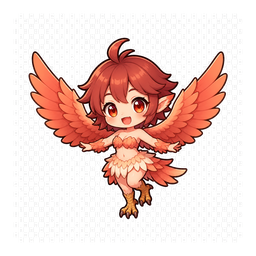
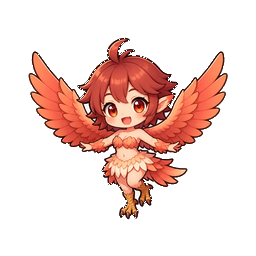
Knock out baked checkerboard backgrounds on new monster sprites.
Edge-flood pale tiles to true alpha for the newer trash and boss art, and bump to v1.05 so image caches refresh.

diff --git a/js/battle/system.js b/js/battle/system.js
@@ -1,7 +1,7 @@
 /** 战斗系统：读条、技能、自动循环 */
 
-import { $, clamp, irand } from "../core/utils.js?v=104";
-import { playSkillAnim, playReflectSpikes } from "./anim.js?v=104";
+import { $, clamp, irand } from "../core/utils.js?v=105";
+import { playSkillAnim, playReflectSpikes } from "./anim.js?v=105";
 import {
   refreshHeroStats,
   skillPower,
@@ -20,7 +20,7 @@ import {
   skillMpCost,
   canAffordSkill,
   spendSkillMp,
-} from "../characters/omni/index.js?v=104";
+} from "../characters/omni/index.js?v=105";
 import {
   gainExp,
   splitExp,
@@ -30,30 +30,30 @@ import {
   DEFAULT_HIT_RATE,
   DEFAULT_DODGE_RATE,
   isHeroDead,
-} from "../characters/progression.js?v=104";
+} from "../characters/progression.js?v=105";
 import {
   refreshSkillTexts,
   calcReflectEnemyDamage,
   getReflectParams,
   applyReflectAllyUnique,
-} from "../characters/skills.js?v=104";
-import { buildEncounter } from "../monsters/roster.js?v=104";
+} from "../characters/skills.js?v=105";
+import { buildEncounter } from "../monsters/roster.js?v=105";
 import {
   pickMonsterSkill,
   monsterSkillDamage,
   monsterDotTickDamage,
   clampMonsterDotGauge,
   PULSE_DOT_INTERVAL,
-} from "../monsters/skills.js?v=104";
-import { rollBattleLoot } from "../loot/drops.js?v=104";
+} from "../monsters/skills.js?v=105";
+import { rollBattleLoot } from "../loot/drops.js?v=105";
 import {
   GAUGE_MAX,
   getBattleAutoEnabled,
   setBattleAutoEnabled,
-} from "../characters/stats.js?v=104";
-import { createTicker } from "../core/time.js?v=104";
-import { scaleGoldGain, scaleExpGain } from "../core/economy.js?v=104";
-import { unitIconHtml, unitShapeHtml } from "../ui/unitIcon.js?v=104";
+} from "../characters/stats.js?v=105";
+import { createTicker } from "../core/time.js?v=105";
+import { scaleGoldGain, scaleExpGain } from "../core/economy.js?v=105";
+import { unitIconHtml, unitShapeHtml } from "../ui/unitIcon.js?v=105";
 import {
   applyStun as applyStunStatus,
   applyStatus,
@@ -67,8 +67,8 @@ import {
   effectiveSpd,
   statusBadgesHtml,
   DEFAULT_STATUS_GAUGE,
-} from "./status.js?v=104";
-import { basicAttackId } from "../characters/omni/autoAttack.js?v=104";
+} from "./status.js?v=105";
+import { basicAttackId } from "../characters/omni/autoAttack.js?v=105";
 
 export function createBattleApi(ctx) {
   const {

diff --git a/js/ui/shell.js b/js/ui/shell.js
@@ -1,6 +1,6 @@
 /** 游戏界面：探索 HUD / 背包 / 阵容 / 角色详情 */
 
-import { $, clamp, styleTag } from "../core/utils.js?v=104";
+import { $, clamp, styleTag } from "../core/utils.js?v=105";
 import {
   refreshHeroStats,
   SLOT_KEYS,
@@ -47,17 +47,17 @@ import {
   isHeroDead,
   refreshSkillTexts,
   buildSkillText,
-} from "../characters/omni/index.js?v=104";
-import { sumEquipBonus, UNIQUE_SKILL_IDS, uniqueAffixName, uniqueAffixDetail, CAST_ECHO_AFFIX } from "../characters/omni/equipment.js?v=104";
-import { setSavedFormation } from "../characters/stats.js?v=104";
-import { resetGameLocalData } from "../core/save.js?v=104";
-import { createAllUniqueItems } from "../loot/drops.js?v=104";
-import { APP_VERSION } from "../core/version.js?v=104";
-import { MONSTER_SKILLS, TYPE_SKILL_IDS, monsterSkillBrief } from "../monsters/skills.js?v=104";
-import { buildFloorMonsterCatalog } from "../monsters/roster.js?v=104";
-import { getFloorDef, MAX_FLOOR } from "../map/floors.js?v=104";
-import { scaleGoldGain, scaleExpGain } from "../core/economy.js?v=104";
-import { unitIconHtml, unitDiamondScale } from "./unitIcon.js?v=104";
+} from "../characters/omni/index.js?v=105";
+import { sumEquipBonus, UNIQUE_SKILL_IDS, uniqueAffixName, uniqueAffixDetail, CAST_ECHO_AFFIX } from "../characters/omni/equipment.js?v=105";
+import { setSavedFormation } from "../characters/stats.js?v=105";
+import { resetGameLocalData } from "../core/save.js?v=105";
+import { createAllUniqueItems } from "../loot/drops.js?v=105";
+import { APP_VERSION } from "../core/version.js?v=105";
+import { MONSTER_SKILLS, TYPE_SKILL_IDS, monsterSkillBrief } from "../monsters/skills.js?v=105";
+import { buildFloorMonsterCatalog } from "../monsters/roster.js?v=105";
+import { getFloorDef, MAX_FLOOR } from "../map/floors.js?v=105";
+import { scaleGoldGain, scaleExpGain } from "../core/economy.js?v=105";
+import { unitIconHtml, unitDiamondScale } from "./unitIcon.js?v=105";
 
 const BAG_SLOTS = 48;
 const PHONE_RESET_CODE = "*886#";

diff --git a/js/main.js b/js/main.js
@@ -1,4 +1,4 @@
-import { $ } from "./core/utils.js?v=104";
+import { $ } from "./core/utils.js?v=105";
 import {
   canWalk,
   isExitCell,
@@ -7,9 +7,9 @@ import {
   screenToTile,
   VIEW_COLS,
   preloadMonsterImages,
-} from "./map/island15.js?v=104";
-import { buildFloor } from "./map/dungeon.js?v=104";
-import { MAX_FLOOR } from "./map/floors.js?v=104";
+} from "./map/island15.js?v=105";
+import { buildFloor } from "./map/dungeon.js?v=105";
+import { MAX_FLOOR } from "./map/floors.js?v=105";
 import {
   createOmniHero,
   createPinkHero,
@@ -25,16 +25,16 @@ import {
   makeItem,
   toBagEquip,
   refreshHeroStats,
-} from "./characters/omni/index.js?v=104";
-import { getSavedFormation } from "./characters/stats.js?v=104";
-import { moveSlimeOnce } from "./monsters/slime.js?v=104";
-import { createBattleApi } from "./battle/system.js?v=104";
-import { createUI } from "./ui/shell.js?v=104";
+} from "./characters/omni/index.js?v=105";
+import { getSavedFormation } from "./characters/stats.js?v=105";
+import { moveSlimeOnce } from "./monsters/slime.js?v=105";
+import { createBattleApi } from "./battle/system.js?v=105";
+import { createUI } from "./ui/shell.js?v=105";
 import {
   loadProgressIntoState,
   flushSave,
   sanitizeInventory,
-} from "./core/save.js?v=104";
+} from "./core/save.js?v=105";
 
 const canvas = $("map");
 const ctx = canvas.getContext("2d");

diff --git a/js/characters/omni/index.js b/js/characters/omni/index.js
@@ -48,7 +48,7 @@ export {
   MAX_EQUIP_LEVEL,
   UPGRADEABLE_RARITIES,
   rebuildEquipStats,
-} from "./equipment.js?v=104";
+} from "./equipment.js?v=105";
 export {
   SKILL_POWER,
   skillPower,
@@ -65,7 +65,7 @@ export {
   createHeroSkills,
   attrPassiveSkillId,
   scaledPassiveBoost,
-} from "./skills.js?v=104";
+} from "./skills.js?v=105";
 export {
   heroMaxMp,
   skillMpCost,
@@ -74,7 +74,7 @@ export {
   isSelfBuffSkill,
   HERO_MAX_MP,
   SKILL_MP_COST,
-} from "../skillMp.js?v=104";
+} from "../skillMp.js?v=105";
 export {
   gainExp,
   splitExp,
@@ -89,7 +89,7 @@ export {
   DEFAULT_HIT_RATE,
   DEFAULT_DODGE_RATE,
   MAX_SKILL_LEVEL,
-} from "../progression.js?v=104";
+} from "../progression.js?v=105";
 export {
   ensureRotation,
   nextAutoSkill,
@@ -98,7 +98,7 @@ export {
   basicAttackId,
   isEmptyAutoSlot,
   resolveAutoSkillId,
-} from "./autoAttack.js?v=104";
+} from "./autoAttack.js?v=105";
 export {
   refreshHeroStats,
   createOmniHero,
@@ -125,5 +125,5 @@ export {
   SLENDER_RATIO,
   diamondSlenderRatio,
   isSlenderFemale,
-} from "../createHero.js?v=104";
-export { BASE, PASSIVE_BOOST } from "./attributes.js?v=104";
+} from "../createHero.js?v=105";
+export { BASE, PASSIVE_BOOST } from "./attributes.js?v=105";

diff --git a/js/characters/createHero.js b/js/characters/createHero.js
@@ -1,15 +1,15 @@
 /** 按总表 id 创建可上阵角色 */
 
-import { getCharacterStats, getAutoRotation } from "./stats.js?v=104";
-import { calcStats } from "./omni/attributes.js?v=104";
-import { createDefaultEquip, sumEquipBonus } from "./omni/equipment.js?v=104";
+import { getCharacterStats, getAutoRotation } from "./stats.js?v=105";
+import { calcStats } from "./omni/attributes.js?v=105";
+import { createDefaultEquip, sumEquipBonus } from "./omni/equipment.js?v=105";
 import {
   createHeroSkills,
   refreshSkillTexts,
   attrPassiveSkillId,
   scaledPassiveBoost,
   createPinkSkills,
-} from "./skills.js?v=104";
+} from "./skills.js?v=105";
 import {
   expToNext,
   getSkillLevel,
@@ -17,8 +17,8 @@ import {
   DEFAULT_CRIT_DMG,
   DEFAULT_HIT_RATE,
   DEFAULT_DODGE_RATE,
-} from "./progression.js?v=104";
-import { heroMaxMp } from "./skillMp.js?v=104";
+} from "./progression.js?v=105";
+import { heroMaxMp } from "./skillMp.js?v=105";
 
 /** 旧存档小粉：去掉粉晶箭，补猎杀印记 */
 function migratePinkKit(hero) {

diff --git a/index.html b/index.html
@@ -35,7 +35,7 @@
   <link rel="preconnect" href="https://fonts.googleapis.com" />
   <link rel="preconnect" href="https://fonts.gstatic.com" crossorigin />
   <link href="https://fonts.googleapis.com/css2?family=ZCOOL+KuaiLe&family=Nunito:wght@600;800&display=swap" rel="stylesheet" />
-  <link rel="stylesheet" href="css/style.css?v=104" />
+  <link rel="stylesheet" href="css/style.css?v=105" />
 </head>
 <body>
   <div id="app">
@@ -52,7 +52,7 @@
         </div>
         <div class="top-place">
           <strong id="placeName">阳光海岛</strong>
-          <span id="placeFloor">1层 v1.04</span>
+          <span id="placeFloor">1层 v1.05</span>
         </div>
         <button type="button" class="top-mobs" id="btnFloorMobs" title="本层怪物信息" aria-label="本层怪物信息">
           <i class="mob-ico" aria-hidden="true"></i>
@@ -370,6 +370,6 @@
       </div>
     </div>
   </div>
-  <script type="module" src="js/main.js?v=104"></script>
+  <script type="module" src="js/main.js?v=105"></script>
 </body>
 </html>

diff --git a/js/map/dungeon.js b/js/map/dungeon.js
@@ -1,11 +1,11 @@
 /** 按楼层配置生成地牢地图与刷怪 */
 
-import { EXIT, FLOOR, createDungeonShell, canWalk } from "./island15.js?v=104";
-import { getFloorDef, MAX_MOB_COUNT } from "./floors.js?v=104";
-import { buildFloorMask } from "./shapes.js?v=104";
-import { createPatrolMonster } from "../monsters/slime.js?v=104";
-import { createBoss } from "../monsters/boss.js?v=104";
-import { pickTrashType } from "../monsters/roster.js?v=104";
+import { EXIT, FLOOR, createDungeonShell, canWalk } from "./island15.js?v=105";
+import { getFloorDef, MAX_MOB_COUNT } from "./floors.js?v=105";
+import { buildFloorMask } from "./shapes.js?v=105";
+import { createPatrolMonster } from "../monsters/slime.js?v=105";
+import { createBoss } from "../monsters/boss.js?v=105";
+import { pickTrashType } from "../monsters/roster.js?v=105";
 
 function key(x, y) {
   return `${x},${y}`;

diff --git a/js/core/save.js b/js/core/save.js
@@ -14,10 +14,10 @@ import {
   rebuildEquipStats,
   refreshSkillTexts,
   expToNext,
-} from "../characters/omni/index.js?v=104";
-import { createPatrolMonster } from "../monsters/slime.js?v=104";
-import { createBoss } from "../monsters/boss.js?v=104";
-import { setSavedFormation, clearCharacterSettings } from "../characters/stats.js?v=104";
+} from "../characters/omni/index.js?v=105";
+import { createPatrolMonster } from "../monsters/slime.js?v=105";
+import { createBoss } from "../monsters/boss.js?v=105";
+import { setSavedFormation, clearCharacterSettings } from "../characters/stats.js?v=105";
 
 export const SAVE_KEY = "moku_game_progress_v1";
 export const SAVE_VERSION = 1;

diff --git a/js/monsters/roster.js b/js/monsters/roster.js
@@ -4,17 +4,17 @@
  * - Boss：后排中央 + 其余格位小怪
  */
 
-import { getMonsterStats, trashTypesForFloor } from "./stats.js?v=104";
+import { getMonsterStats, trashTypesForFloor } from "./stats.js?v=105";
 import {
   TYPE_SKILL_IDS,
   trashControlSkillIdsForFloor,
   bossSkillIdsForFloor,
-} from "./skills.js?v=104";
+} from "./skills.js?v=105";
 import {
   DEFAULT_HIT_RATE,
   DEFAULT_DODGE_RATE,
-} from "../characters/progression.js?v=104";
-import { createBoss } from "./boss.js?v=104";
+} from "../characters/progression.js?v=105";
+import { createBoss } from "./boss.js?v=105";
 
 let _seq = 1;
 function nextId(prefix) {

diff --git a/js/monsters/boss.js b/js/monsters/boss.js
@@ -1,13 +1,13 @@
 /** 关卡出口守护 Boss（按层固定主题 kind） */
 
-import { getMonsterStats, DEFAULT_MONSTER_SPEED } from "./stats.js?v=104";
+import { getMonsterStats, DEFAULT_MONSTER_SPEED } from "./stats.js?v=105";
 import {
   MONSTER_SKILLS,
   bossSkillIdsForFloor,
   monsterSkillBrief,
   monsterSkillRangeLabel,
-} from "./skills.js?v=104";
-import { bossKindForFloor, bossMilestoneMult } from "./bossKinds.js?v=104";
+} from "./skills.js?v=105";
+import { bossKindForFloor, bossMilestoneMult } from "./bossKinds.js?v=105";
 
 export function createBoss({
   pos = { x: 8, y: 4 },

diff --git a/js/characters/skills.js b/js/characters/skills.js
@@ -1,8 +1,8 @@
 /** 各职业技能定义与战斗数值 */
 
-import { getCharacterStats } from "./stats.js?v=104";
-import { getSkillLevel, MAX_SKILL_LEVEL } from "./progression.js?v=104";
-import { heroHasUnique, sumSkillMods } from "./omni/equipment.js?v=104";
+import { getCharacterStats } from "./stats.js?v=105";
+import { getSkillLevel, MAX_SKILL_LEVEL } from "./progression.js?v=105";
+import { heroHasUnique, sumSkillMods } from "./omni/equipment.js?v=105";
 
 function fmtSkillNum(n) {
   const x = Math.round(Number(n) * 100) / 100;

diff --git a/js/monsters/slime.js b/js/monsters/slime.js
@@ -1,14 +1,14 @@
 /** 史莱姆 / 通用小怪巡逻 */
 
-import { OX, OY, canWalk } from "../map/island15.js?v=104";
-import { createMonster } from "./roster.js?v=104";
+import { OX, OY, canWalk } from "../map/island15.js?v=105";
+import { createMonster } from "./roster.js?v=105";
 import {
   MONSTER_SKILLS,
   TYPE_SKILL_IDS,
   trashControlSkillIdsForFloor,
   monsterSkillBrief,
   monsterSkillRangeLabel,
-} from "./skills.js?v=104";
+} from "./skills.js?v=105";
 
 export const GNAW = { mult: 1.0, flat: 0, style: "melee" };
 
